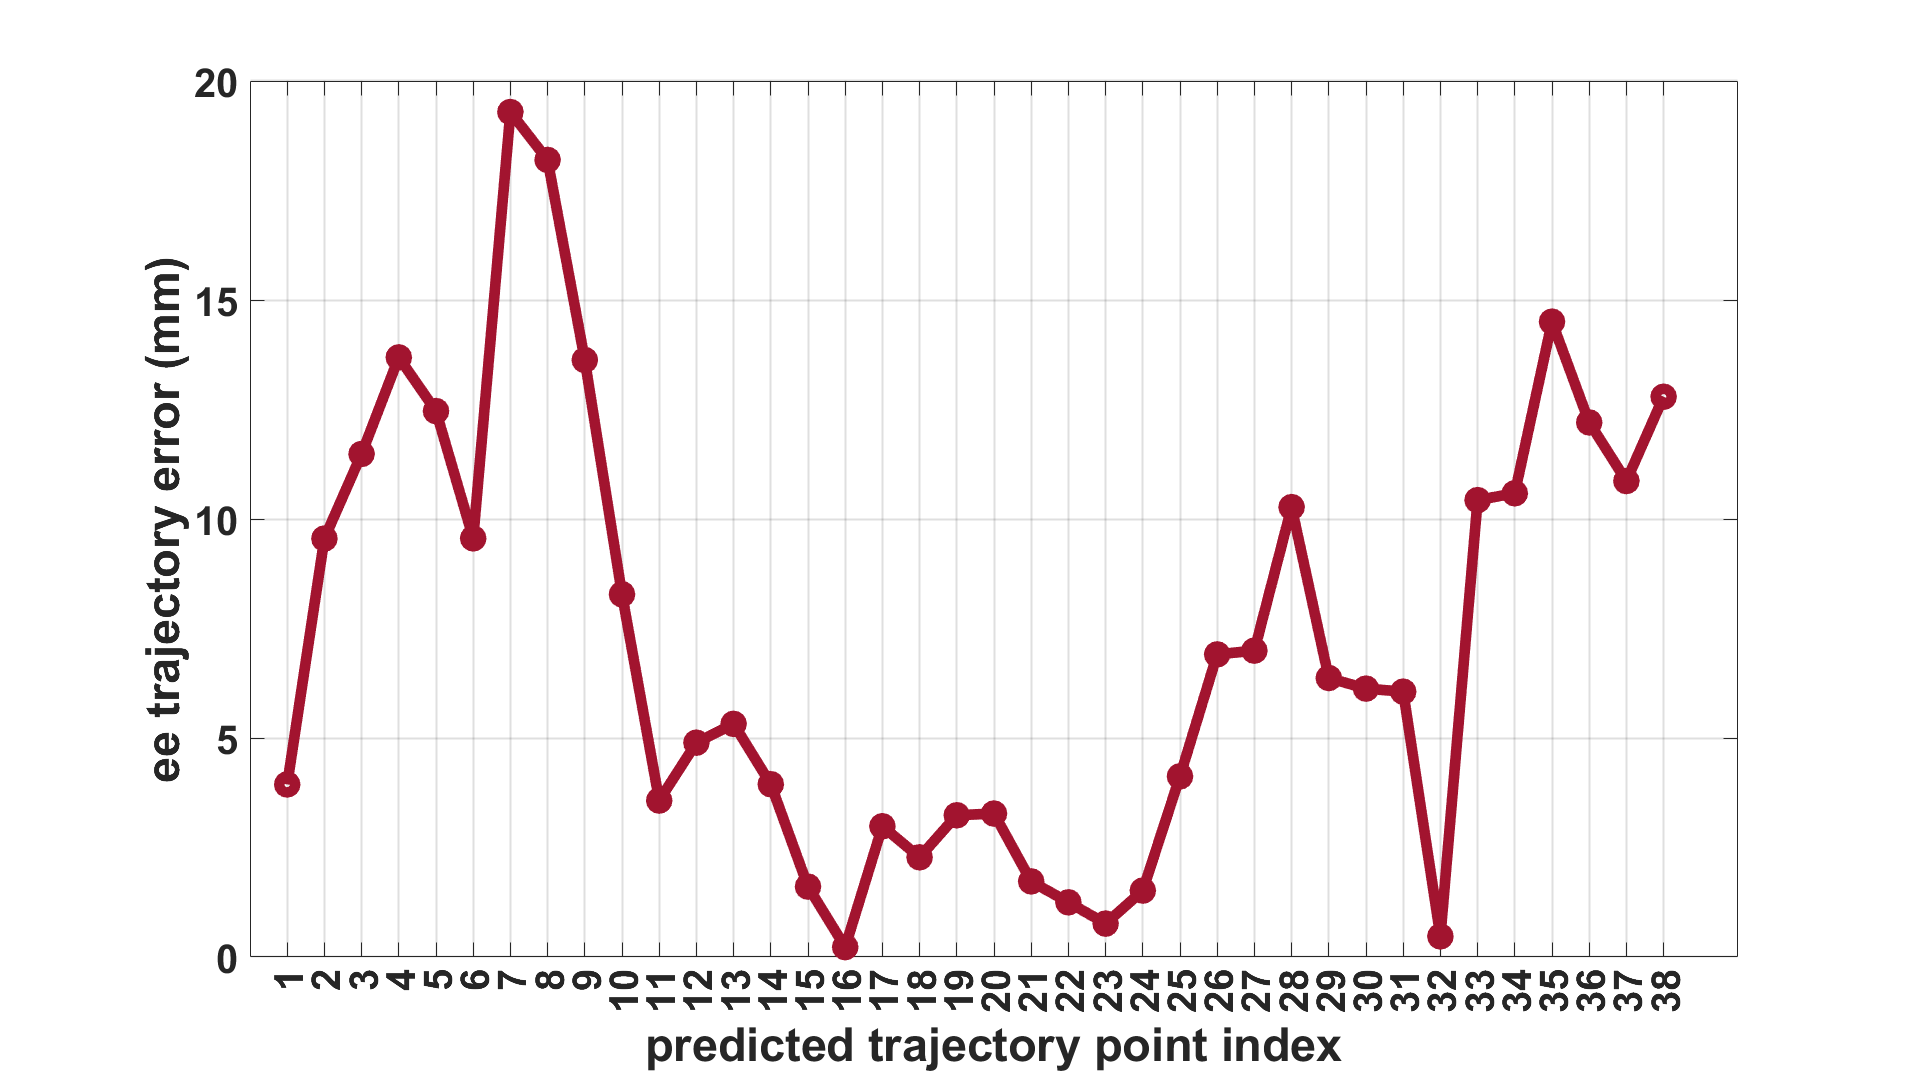
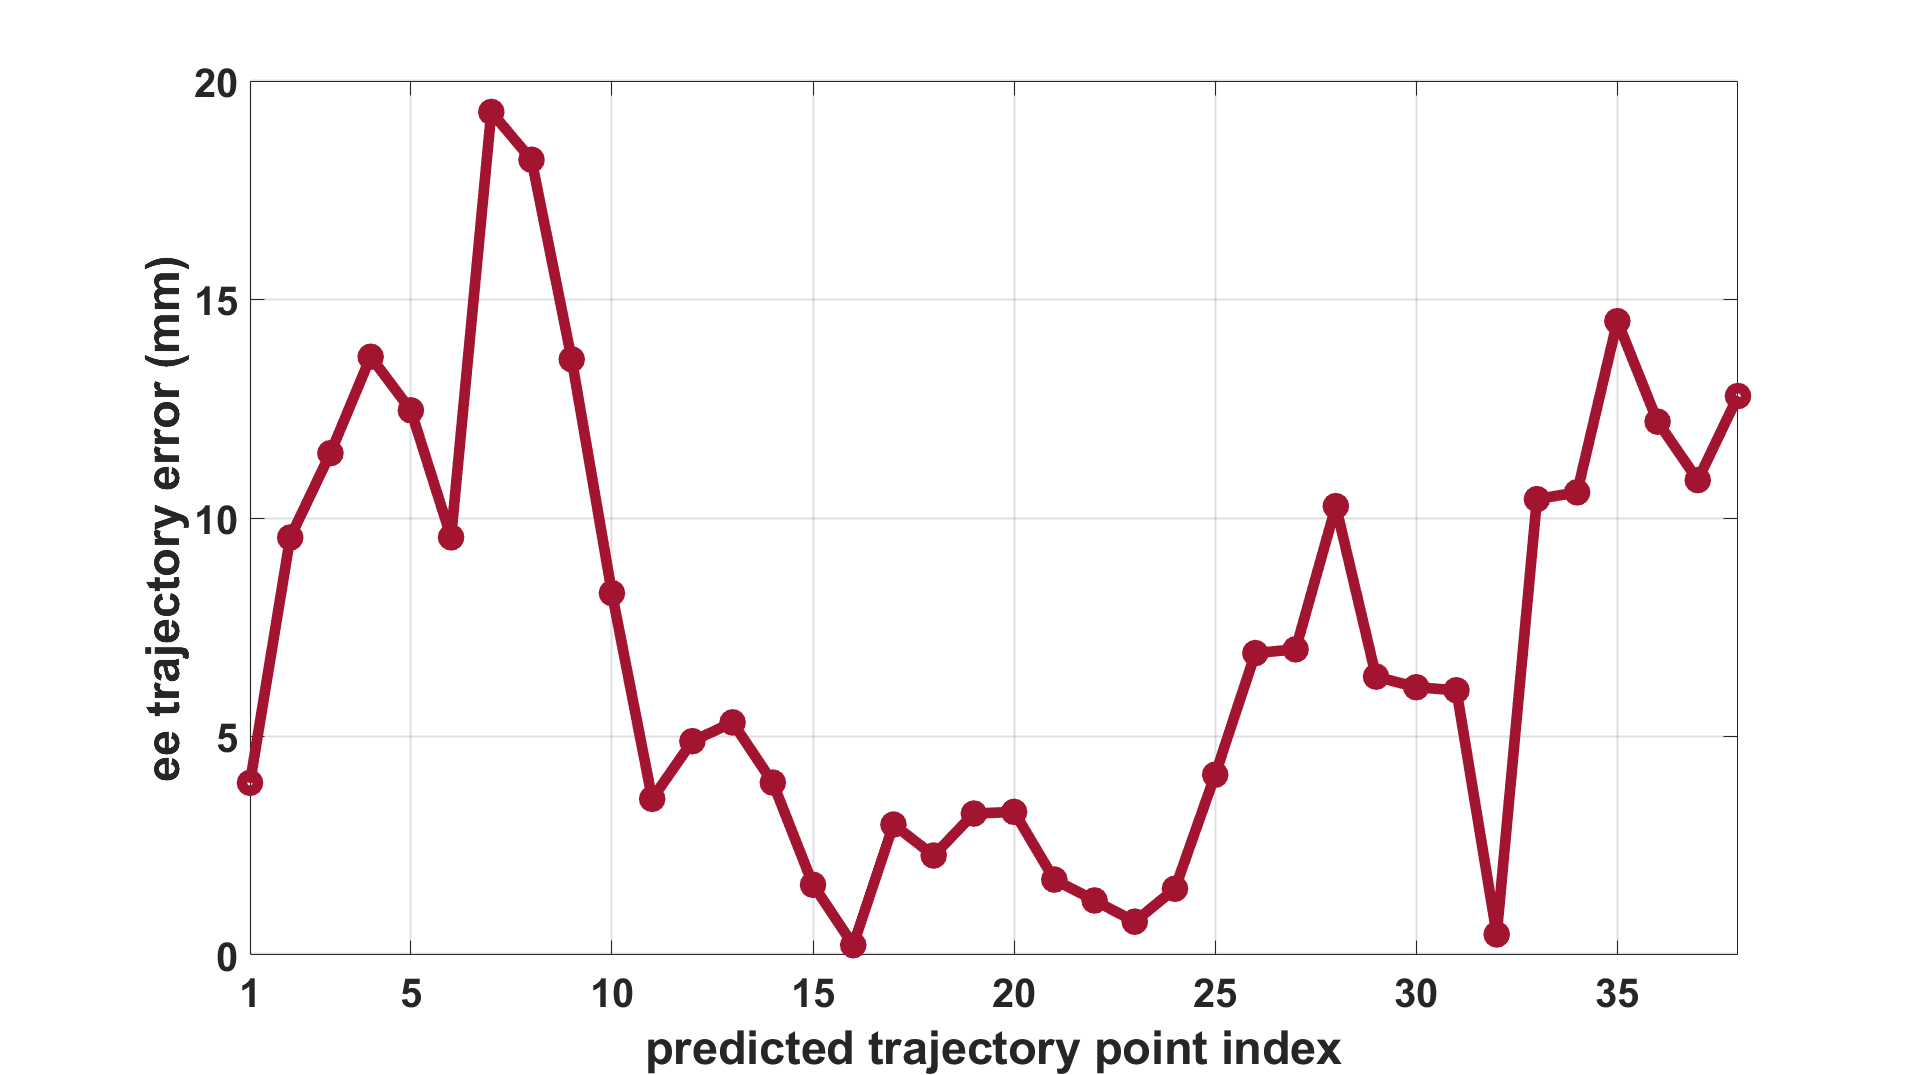
update error plot limits and grid ticks

diff --git a/real_robot_data_plots_and_demos/orientation_experiments/valve_turn_case_4/ee_position_and_joint_states_plotter.m b/real_robot_data_plots_and_demos/orientation_experiments/valve_turn_case_4/ee_position_and_joint_states_plotter.m
@@ -408,11 +408,11 @@ ylabel(ax_ee_traj_error_final, 'ee trajectory error (mm)');
 % title(ax_ee_traj_error3, ['EE Trajectory Error - ',title_postfix]);
 
 grid on
-
+xlim([point_labels(1) point_labels(end)]);
 % Set fontsizes for various plot parameters
 ax_ee_traj_error_final.XAxis.FontSize = tick_fontsize; 
 ax_ee_traj_error_final.XAxis.FontWeight = 'bold';
-ax_ee_traj_error_final.XTick = point_labels
+ax_ee_traj_error_final.XTick = [point_labels(1),5:5:point_labels(end)];
 
 ax_ee_traj_error_final.YAxis.FontSize = tick_fontsize;  % Primary Y-axis
 ax_ee_traj_error_final.YAxis.FontWeight = 'bold';

diff --git a/real_robot_data_plots_and_demos/orientation_experiments/valve_turn_case_3/ee_position_and_joint_states_plotter.m b/real_robot_data_plots_and_demos/orientation_experiments/valve_turn_case_3/ee_position_and_joint_states_plotter.m
@@ -405,11 +405,11 @@ ylabel(ax_ee_traj_error_final, 'ee trajectory error (mm)');
 % title(ax_ee_traj_error3, ['EE Trajectory Error - ',title_postfix]);
 
 grid on
-
+xlim([point_labels(1) point_labels(end)]);
 % Set fontsizes for various plot parameters
 ax_ee_traj_error_final.XAxis.FontSize = tick_fontsize; 
 ax_ee_traj_error_final.XAxis.FontWeight = 'bold';
-ax_ee_traj_error_final.XTick = point_labels
+ax_ee_traj_error_final.XTick = [point_labels(1),5:5:point_labels(end)]
 
 ax_ee_traj_error_final.YAxis.FontSize = tick_fontsize;  % Primary Y-axis
 ax_ee_traj_error_final.YAxis.FontWeight = 'bold';

diff --git a/real_robot_data_plots_and_demos/moving_a_stool/ee_position_and_joint_states_plotter.m b/real_robot_data_plots_and_demos/moving_a_stool/ee_position_and_joint_states_plotter.m
@@ -361,11 +361,12 @@ ylabel(ax_ee_traj_error_final, 'ee trajectory error (mm)');
 % title(ax_ee_traj_error3, ['EE Trajectory Error - ',title_postfix]);
 
 grid on
+xlim([point_labels(1) point_labels(end)]);
 
 % Set fontsizes for various plot parameters
 ax_ee_traj_error_final.XAxis.FontSize = tick_fontsize; 
 ax_ee_traj_error_final.XAxis.FontWeight = 'bold';
-ax_ee_traj_error_final.XTick = point_labels
+ax_ee_traj_error_final.XTick = point_labels;
 
 ax_ee_traj_error_final.YAxis.FontSize = tick_fontsize;  % Primary Y-axis
 ax_ee_traj_error_final.YAxis.FontWeight = 'bold';

diff --git a/real_robot_data_plots_and_demos/orientation_experiments/valve_turn_case_2/ee_position_and_joint_states_plotter.m b/real_robot_data_plots_and_demos/orientation_experiments/valve_turn_case_2/ee_position_and_joint_states_plotter.m
@@ -386,7 +386,8 @@ ylabel(ax_ee_traj_error_final, 'ee trajectory error (mm)');
 % title(ax_ee_traj_error3, ['EE Trajectory Error - ',title_postfix]);
 
 grid on
-
+ylimits = ylim;
+ylim([0 ylimits(2)]);
 % Set fontsizes for various plot parameters
 ax_ee_traj_error_final.XAxis.FontSize = tick_fontsize; 
 ax_ee_traj_error_final.XAxis.FontWeight = 'bold';
